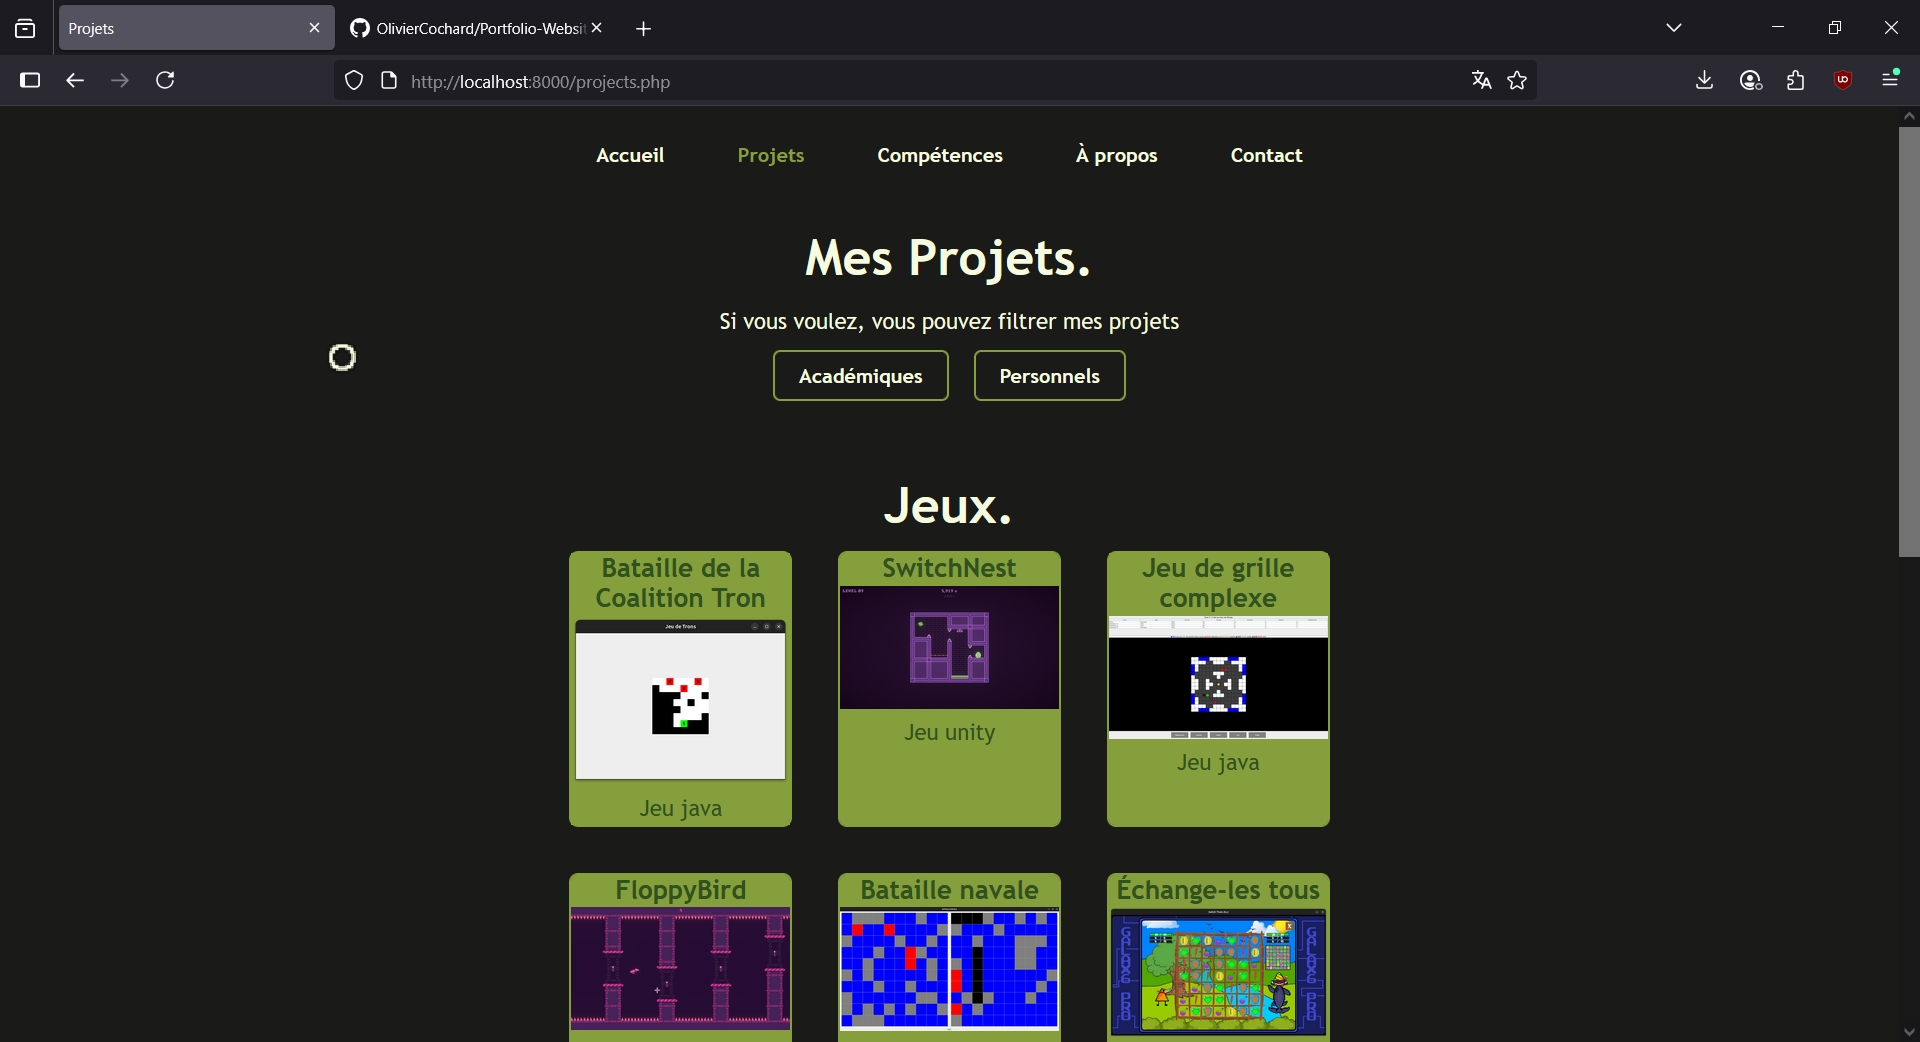
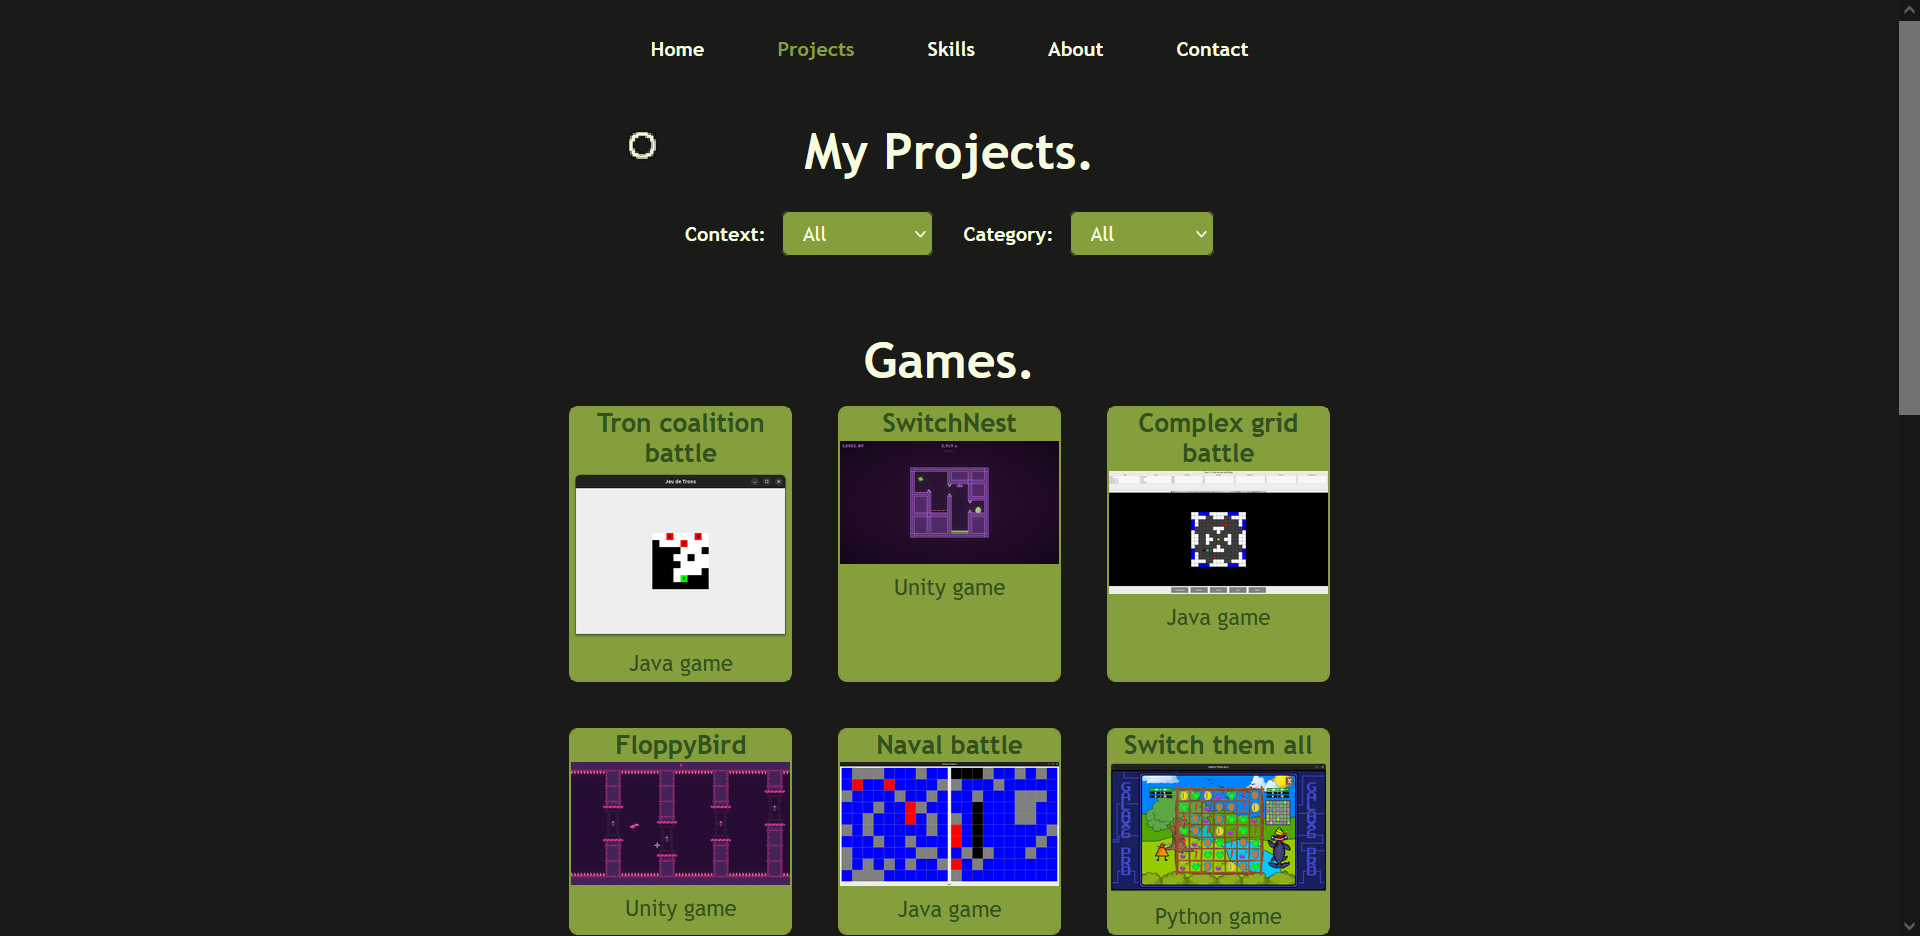
update + fixes
images
filters menu

diff --git a/scripts/lang.js b/scripts/lang.js
@@ -1,19 +1,26 @@
 const toggleThemeBtn = document.getElementById('theme-toggle-btn');
 const toggleLangBtn = document.getElementById('lang-toggle-btn');
 const elements = document.querySelectorAll('[data-en][data-fr]');
-
 let currentLang = localStorage.getItem('lang') || 'fr';
 let currentTheme = localStorage.getItem('theme') || 'dark';
 
 function applyLanguage(lang) {
   elements.forEach(el => {
     const text = el.getAttribute(`data-${lang}`);
-    const html = text.replace(/\n/g, '<br>');
-    el.innerHTML = html;
+    if (text.includes('\n')) {
+      el.innerHTML = text.replace(/\n/g, '<br>');
+    } else {
+      el.textContent = text;
+    }
   });
 
-  toggleLangBtn.textContent = lang === 'fr' ? 'English' : 'Français';
+  if (toggleLangBtn) {
+    toggleLangBtn.textContent = lang === 'fr' ? 'English' : 'Français';
+  }
+
+  applyLanguageThemeBtn(lang, currentTheme);
 }
+
 function applyLanguageThemeBtn(lang, theme) {
   if (!toggleThemeBtn) return;
 
@@ -25,13 +32,11 @@ function applyLanguageThemeBtn(lang, theme) {
 }
 
 applyLanguage(currentLang);
-applyLanguageThemeBtn(currentLang, currentTheme);
 
-toggleLangBtn.addEventListener('click', () => {
-  currentLang = currentLang === 'fr' ? 'en' : 'fr';
-  currentTheme = localStorage.getItem('theme') || 'dark';
-  localStorage.setItem('lang', currentLang);
-  applyLanguage(currentLang);
-
-  applyLanguageThemeBtn(currentLang, currentTheme);
-});
+if (toggleLangBtn) {
+  toggleLangBtn.addEventListener('click', () => {
+    currentLang = currentLang === 'fr' ? 'en' : 'fr';
+    localStorage.setItem('lang', currentLang);
+    applyLanguage(currentLang);
+  });
+}

diff --git a/styles/projectsStyle.css b/styles/projectsStyle.css
@@ -58,3 +58,45 @@
 	padding-top: 2px;
 	background-color: var(--secondColor);
 }
+
+
+
+
+.buttons {
+  display: flex;
+  justify-content: center;
+}
+.filters {
+  display: flex;
+  flex-wrap: wrap;
+  gap: 1.5rem;
+  align-items: center;
+  justify-content: center;
+}
+
+.filters label {
+  font-weight: 600;
+  margin-right: 0.5rem;
+  color: var(--textColor);
+}
+.filters select {
+  padding: 0.5rem 1rem;
+  font-size: 1rem;
+  border-radius: 5px;
+  background-color: var(--secondColor);
+  color: var(--textColor);
+  border: 1px solid var(--backgroundColor);      
+  transition: border 0.15s ease;
+  text-align: center;
+}
+.filters select:hover {
+  border: 1px solid var(--textColor);
+}
+.filters select option {
+  background-color: var(--secondColor);
+  color: var(--textColor);
+}
+.filters select option :hover{
+  background-color: var(--secondColor);
+  color: var(--textColor);
+}

diff --git a/projects.php b/projects.php
@@ -20,61 +20,121 @@
 	<?php generateMenu('projects'); ?>
 	<div class="content">
 		<?php
-		    $filter = '';
-		    if (isset($_GET['filter']) && !empty($_GET['filter']))
-		        $filter = $_GET['filter'];
-
-		    $word_en = "";
-		    $word_fr = "";
-
-		    if ($filter === 'academic'){
-		        $word_en = "Academic ";
-		        $word_fr = " Académiques";
+		    $contextFilter = '';
+		    if (isset($_GET['contextFilter']) && !empty($_GET['contextFilter']))
+		        $contextFilter = $_GET['contextFilter'];
+		    $contextFilter_en = "";
+		    $contextFilter_fr = "";
+		    if ($contextFilter === 'academic'){
+		        $contextFilter_en = "Academic ";
+		        $contextFilter_fr = " Académiques";
 		    }
-		    else if ($filter === 'personal'){
-		        $word_en = "Personal ";
-		        $word_fr = " Personnels";
+		    else if ($contextFilter === 'personal'){
+		        $contextFilter_en = "Personal ";
+		        $contextFilter_fr = " Personnels";
 		    }
 
-		    echo "<h1 data-en='My {$word_en}Projects.' data-fr='Mes Projets{$word_fr}.'></h1>";
+		    $categoryFilter = '';
+		    if (isset($_GET['categoryFilter']) && !empty($_GET['categoryFilter']))
+		        $categoryFilter = $_GET['categoryFilter'];
+		    $categoryFilter_en = "";
+		    $categoryFilter_fr = "";
+		    if ($categoryFilter === 'game'){
+		        $categoryFilter_en = "Game ";
+		        $categoryFilter_fr = " De Jeux";
+		    }
+		    else if ($categoryFilter === 'software'){
+		        $categoryFilter_en = "Software ";
+		        $categoryFilter_fr = " De Logiciels";
+		    }
+		    else if ($categoryFilter === 'web'){
+		        $categoryFilter_en = "Web ";
+		        $categoryFilter_fr = " De Web";
+		    }
+
+		    echo "<h1 data-en='My {$categoryFilter_en}{$contextFilter_en}Projects.' data-fr='Mes Projets{$contextFilter_fr}{$categoryFilter_fr}.'></h1>";
 		?>
 
+		<?php
+			$contextFilter = $_GET['contextFilter'] ?? 'all';
+			$categoryFilter = $_GET['categoryFilter'] ?? 'all';
 
-		<p data-en="If you want, you can filter my projects" data-fr="Si vous voulez, vous pouvez filtrer mes projets"></p>
+			$contextOptions = [
+			    'all' => ['en' => 'All', 'fr' => 'Tous'],
+			    'academic' => ['en' => 'Academic', 'fr' => 'Académique'],
+			    'personal' => ['en' => 'Personal', 'fr' => 'Personnel'],
+			];
+
+			$categoryOptions = [
+			    'all' => ['en' => 'All', 'fr' => 'Tous'],
+			    'web' => ['en' => 'Website', 'fr' => 'Site Web'],
+			    'game' => ['en' => 'Game', 'fr' => 'Jeu'],
+			    'software' => ['en' => 'Software', 'fr' => 'Logiciel'],
+			];
+		?>
+
 		<div class="buttons">
-			<?php
-				if ($filter !== 'academic')
-					echo "<a href='?filter=academic' class='btn' data-en='Academic' data-fr='Académiques'></a>";
-				if ($filter === 'academic' || $filter  === 'personal')
-					echo "<a href='?filter=none' class='btn' data-en='None' data-fr='Rien'></a>";
-				if ($filter !== 'personal')
-					echo "<a href='?filter=personal' class='btn' data-en='Personal' data-fr='Personnels'></a>";
-			?>
+			<div class="filters">
+			    <form method="get" style="display: inline;">
+			        <label for="contextFilter" data-en="Context:" data-fr="Contexte :">Context:</label>
+			        <select name="contextFilter" id="contextFilter" onchange="this.form.submit()">
+			            <?php foreach ($contextOptions as $key => $label): ?>
+			                <option
+			                    value="<?= $key ?>"
+			                    <?= $contextFilter === $key ? 'selected' : '' ?>
+			                    data-en="<?= $label['en'] ?>"
+			                    data-fr="<?= $label['fr'] ?>"
+			                >
+			                    <?= $label['en'] ?>
+			                </option>
+			            <?php endforeach; ?>
+			        </select>
+			        <input type="hidden" name="categoryFilter" value="<?= $categoryFilter ?>">
+			    </form>
+
+			    <form method="get" style="display: inline;">
+			        <label for="categoryFilter" data-en="Category:" data-fr="Catégorie :">Category:</label>
+			        <select name="categoryFilter" id="categoryFilter" onchange="this.form.submit()">
+			            <?php foreach ($categoryOptions as $key => $label): ?>
+			                <option
+			                    value="<?= $key ?>"
+			                    <?= $categoryFilter === $key ? 'selected' : '' ?>
+			                    data-en="<?= $label['en'] ?>"
+			                    data-fr="<?= $label['fr'] ?>"
+			                >
+			                    <?= $label['en'] ?>
+			                </option>
+			            <?php endforeach; ?>
+			        </select>
+			        <input type="hidden" name="contextFilter" value="<?= $contextFilter ?>">
+			    </form>
+			</div>
 		</div>
 
-		<h1 data-en="Games." data-fr="Jeux."></h1>
 		<?php
-			echo "<div class=projectTrio>";
-			generateSection("Game", $filter);
-			echo "</div>";
-		?>
-
-		<h1 data-en="Software." data-fr="Logiciels.">.</h1>
-		<?php
-			echo "<div class=projectTrio>";
-			generateSection("Software", $filter);
-			echo "</div>";
-		?>
-
-		<h1>Web.</h1>
-		<?php
-			echo "<div class=projectTrio>";
-			generateSection("Web", $filter);
-			echo "</div>";
+			if ($categoryFilter === 'game' || $categoryFilter === '' || $categoryFilter === 'all'){
+				echo "<h1 data-en='Games.' data-fr='Jeux.'></h1>";
+				echo "<div class='projectTrio'>";
+				generateSection("Game", $contextFilter, $categoryFilter);
+				echo "</div>";
+			}
+			if ($categoryFilter === 'software' || $categoryFilter === '' || $categoryFilter === 'all'){
+				echo "<h1 data-en='Software.' data-fr='Logiciels.'></h1>";
+				echo "<div class='projectTrio'>";
+				generateSection("Software", $contextFilter, $categoryFilter);
+				echo "</div>";
+			}
+			if ($categoryFilter === 'web' || $categoryFilter === '' || $categoryFilter === 'all'){
+				echo "<h1 data-en='Website.' data-fr='Sites Web.'></h1>";
+				echo "<div class='projectTrio'>";
+				generateSection("Web", $contextFilter, $categoryFilter);
+				echo "</div>";
+			}
 		?>
 	</div>
+
 	<?php generateFooter(); ?>
 	<script src="scripts/lang.js"></script>
 	<script src="scripts/themeToggle.js"></script>
 </body>
-</html> 
+</html>

diff --git a/scripts/projectPageBuilder.php b/scripts/projectPageBuilder.php
@@ -15,11 +15,11 @@ function generateProject(String $category = '', int $numero = -1) {
 
     return $projectItems[$category][$numero];
 }
-function generateSectionById(String $category = '', int $numero = -1, string $filter = ''){
+function generateSectionById(String $category = '', int $numero = -1, string $contextFilter, string $categoryFilter){
     $project = generateProject($category, $numero);
     if ($project === null) return false;
 
-    $url = "projectDetails.php?category=" . urlencode($category) . "&numero=" . $numero . "&filter=" . $filter;
+    $url = "projectDetails.php?category=" . urlencode($category) . "&numero=" . $numero . "&contextFilter=" . $contextFilter . "&categoryFilter=" . $categoryFilter;
     echo "<a href='$url' style='text-decoration: none; color: inherit;'>";
     echo "<div class='projectArea'>";
     echo "<h3 data-en=\"" . htmlspecialchars($project->getTitle('en'), ENT_QUOTES) . "\" data-fr=\"" . htmlspecialchars($project->getTitle('fr'), ENT_QUOTES) . "\"></h3>";
@@ -37,7 +37,7 @@ function generateSectionById(String $category = '', int $numero = -1, string $fi
     echo "</a>";
     return true;
 }
-function generateSection(string $category = '', string $filter = '') {
+function generateSection(string $category = '', string $contextFilter = '', string $categoryFilter = '') {
     global $projectItems;
 
     if (!isset($projectItems[$category])) return;
@@ -45,10 +45,10 @@ function generateSection(string $category = '', string $filter = '') {
     $projects = array_reverse($projectItems[$category], true);
     $counter = 0;
     foreach ($projects as $numero => $project) {
-        if ($filter === "academic" && !$project->getIsAcademic()) continue;
-        if ($filter === "personal" && $project->getIsAcademic()) continue;
+        if ($contextFilter === "academic" && !$project->getIsAcademic()) continue;
+        if ($contextFilter === "personal" && $project->getIsAcademic()) continue;
 
-        if (generateSectionById($category, $numero, $filter) === true)
+        if (generateSectionById($category, $numero, $contextFilter, $categoryFilter) === true)
             $counter++;
     }
 

diff --git a/projectDetails.php b/projectDetails.php
@@ -21,9 +21,12 @@
 	<?php generateMenu(''); ?>
 	<div class="content">
 		<?php
-			$filter = '';
-			if (isset($_GET['filter']) && !empty($_GET['filter']))
-		    	$filter = $_GET['filter'];
+			$contextFilter = '';
+			if (isset($_GET['contextFilter']) && !empty($_GET['contextFilter']))
+		    	$contextFilter = $_GET['contextFilter'];
+		    $categoryFilter = '';
+			if (isset($_GET['categoryFilter']) && !empty($_GET['categoryFilter']))
+		    	$categoryFilter = $_GET['categoryFilter'];
 			$category = '';
 			if (isset($_GET['category']) && !empty($_GET['category']))
 		    	$category = $_GET['category'];
@@ -90,7 +93,7 @@
 				echo "<h3 data-en='Links' data-fr='Liens'></h3>";
 				if ($project->getPlay() !== []){
 					echo "<div class='logo-text'>";
-					echo "<a href='projectPlay.php?category=$category&numero=$numero&filter=$filter'><p data-en='Play with WebGL' data-fr='Jouer avec WebGL'></p></a>";
+					echo "<a href='projectPlay.php?category=$category&numero=$numero&contextFilter=$contextFilter'><p data-en='Play with WebGL' data-fr='Jouer avec WebGL'></p></a>";
 					echo "<img id='unity-img' class='logo' src='images/unityLogo.png'alt='unity logo'>";
 					echo "</div>";
 				}
@@ -168,7 +171,7 @@
 				}
 			}
 			echo "<div class='buttons'>";
-			echo "<a href='projects.php?filter=$filter' class='btn' data-en='Back to projects' data-fr='Retour aux projets'></a>";
+			echo "<a href='projects.php?contextFilter=$contextFilter&categoryFilter=$categoryFilter' class='btn' data-en='Back to projects' data-fr='Retour aux projets'></a>";
 			echo "</div>";
 			echo "</div>";
 		?>

diff --git a/scripts/data.php b/scripts/data.php
@@ -289,6 +289,7 @@ $projectItems = [
             'languages' => "HTML, CSS, JavaScript, PHP",
             'imageFileName' => ["images/projects/website_4_1.png", "images/projects/website_4_2.png", "images/projects/website_4_3.png", "images/projects/website_4_4.png"],
             'gitHubLink' => "https://github.com/OlivierCochard/Portfolio-Website",
+            'isAcademic' => false,
 
             'title' => [
                 'en' => "Portolio website",
